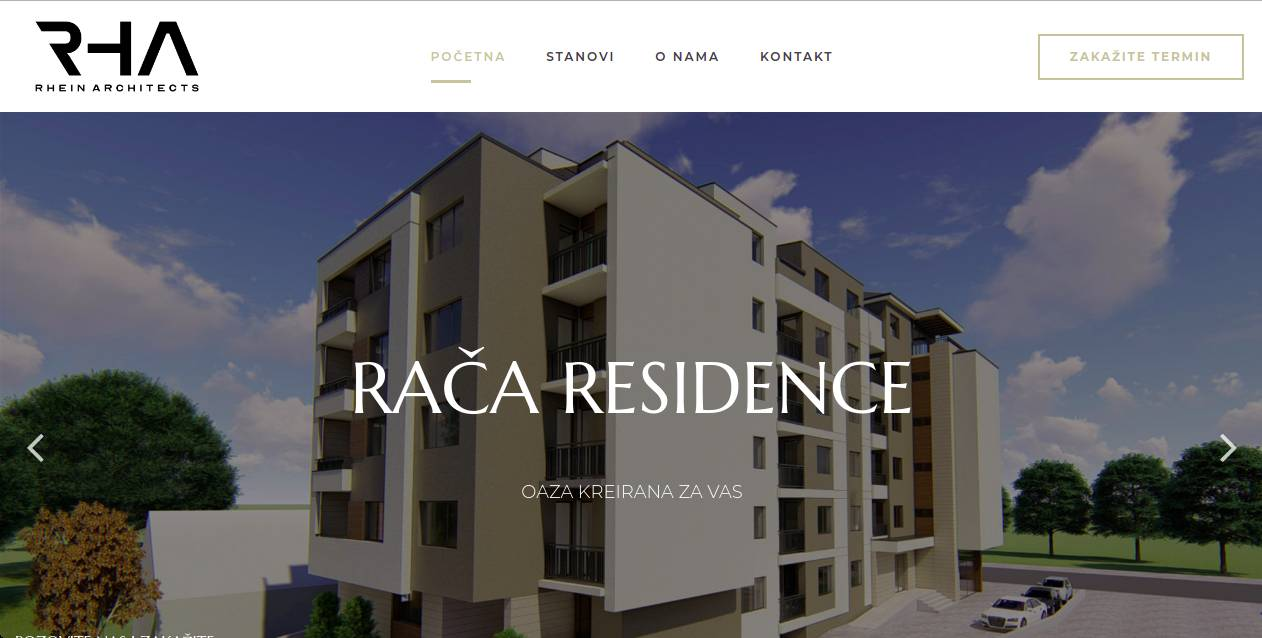
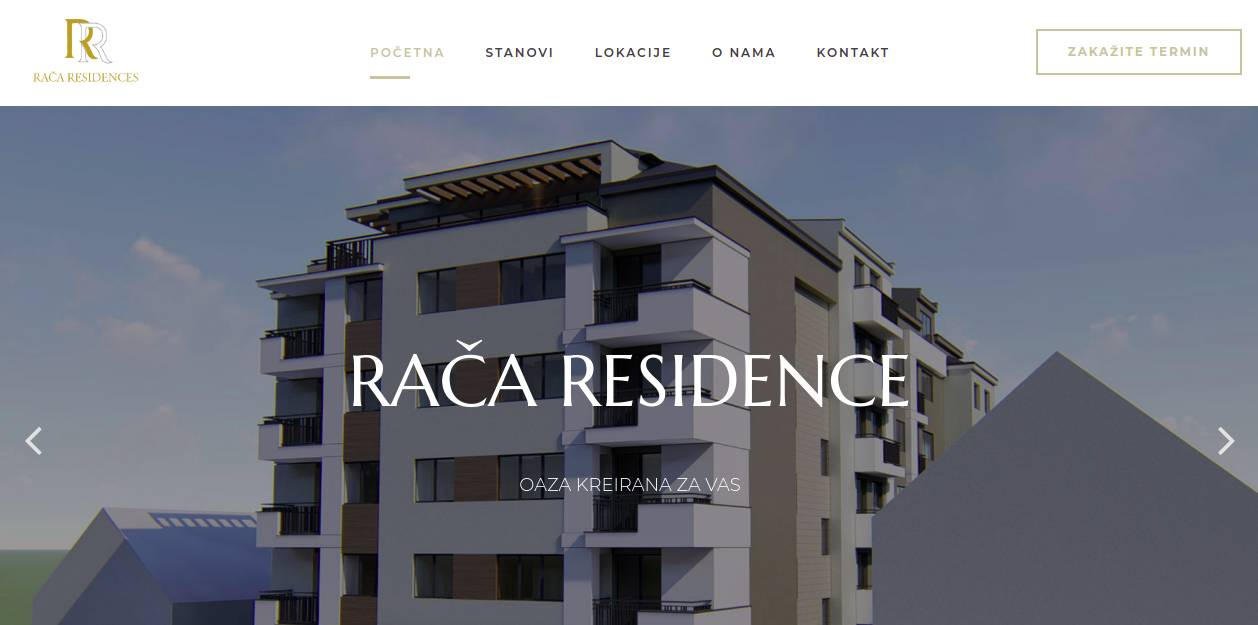
pdf

diff --git a/client/public/assets/scss/base/_header.scss b/client/public/assets/scss/base/_header.scss
@@ -20,12 +20,12 @@
   }
 }
 
-.site-branding {
-  @media (min-width: 992px) and (max-width: 1199px) {
-    width: 100%;
-    text-align: center;
-  }
-}
+// .site-branding {
+//   @media (min-width: 992px) and (max-width: 1199px) {
+//     width: 100%;
+//     text-align: center;
+//   }
+// }
 
 .header-group {
   justify-content: flex-end;

diff --git a/client/src/components/common/headers/common/logo.jsx b/client/src/components/common/headers/common/logo.jsx
@@ -8,7 +8,7 @@ function LogoImage(props) {
       <img
         src={`/assets/images/${props.logo}`}
         alt=""
-        className="img-fluid col-md-4 col-lg-2 col-xl-6"
+        className="img-fluid col-8 col-md-4 col-lg-8 col-xl-6"
       />
     </Link>
   );
